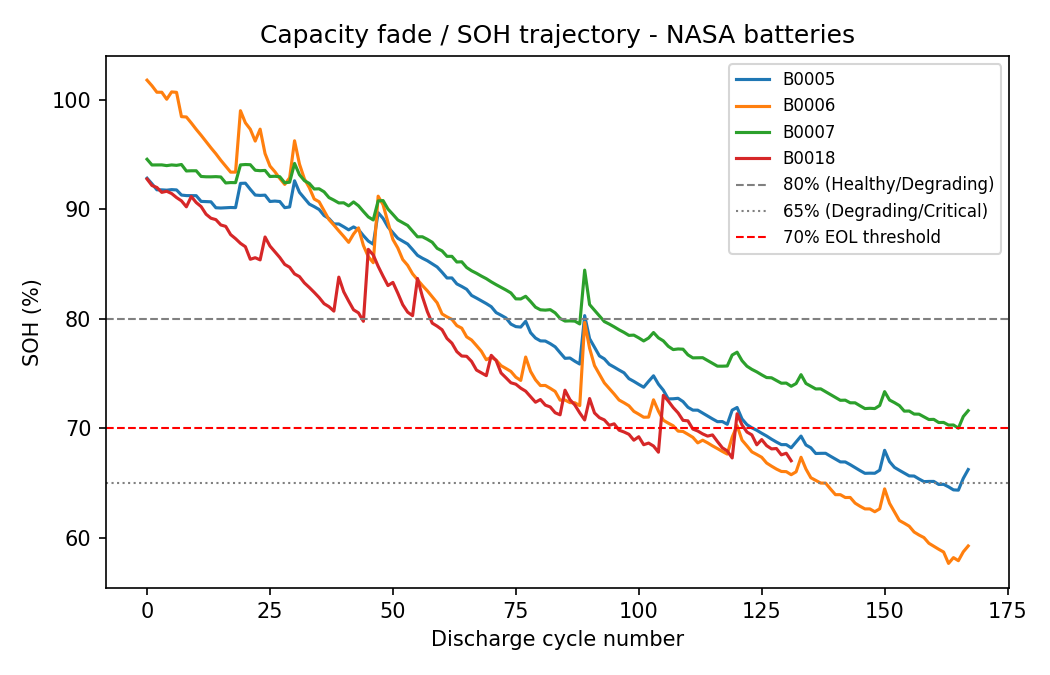
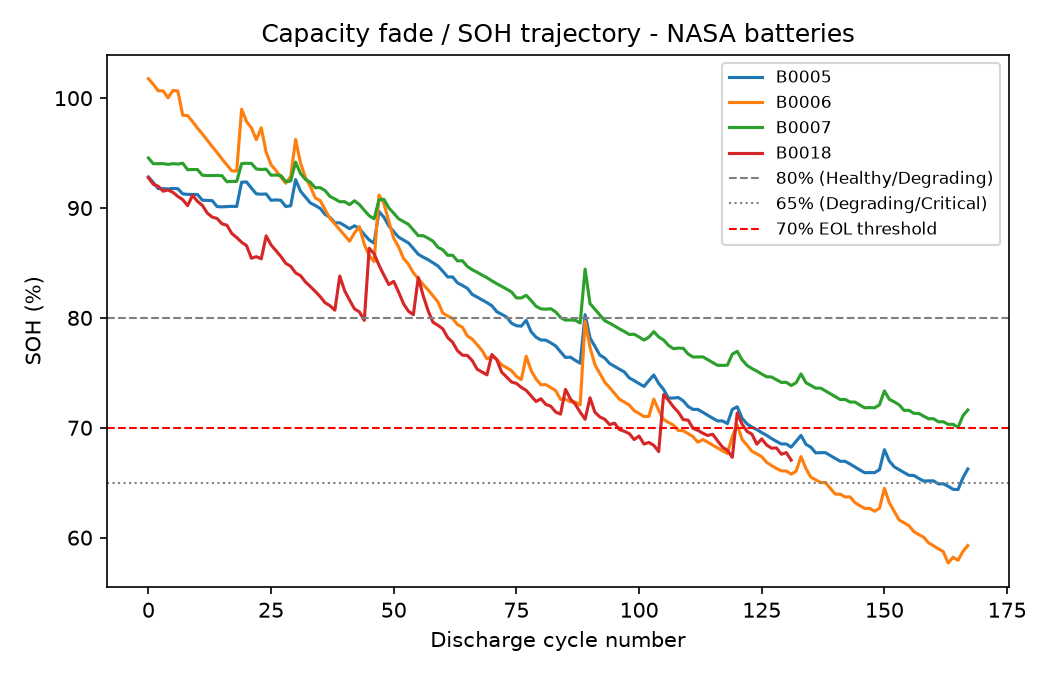
Regenerate plots from NASA pipeline re-run; update demo input scenario
Metrics (results.json, engineered_features.csv) came out byte-identical
since the pipeline is deterministic, but the plot images changed slightly
between runs. Also updates predict_demo.py's default INPUT values.

diff --git a/scripts/predict_demo.py b/scripts/predict_demo.py
@@ -23,19 +23,17 @@ from classical_soh_rul import (
 
 # ============================== INPUT ======================================
 # Today's cranking-test reading (replace with real sensor values later).
-V_REST = 12.2       # resting voltage just before cranking (V)
-V_MIN = 10.8         # minimum voltage during the cranking event (V)
-I_CRANK = 40         # cranking current (A)
-TEMP_C = 25          # ambient temperature (C)
+V_REST = 12.0
+V_MIN = 10.4
+I_CRANK = 35
+TEMP_C = 25
 
-# Recent SOH history, as (days_ago, soh_pct) — needed to predict RUL from a trend.
-# Replace with real past readings once you're logging them from the hardware.
 HISTORY = [
-    (90, 90.0),
-    (60, 85.0),
-    (30, 80.0),
-    (15, 76.0),
-    (5, 73.0),
+    (60, 75.0),
+    (45, 68.0),
+    (30, 62.0),
+    (15, 58.0),
+    (5, 56.0),
 ]
 # ============================================================================
 
